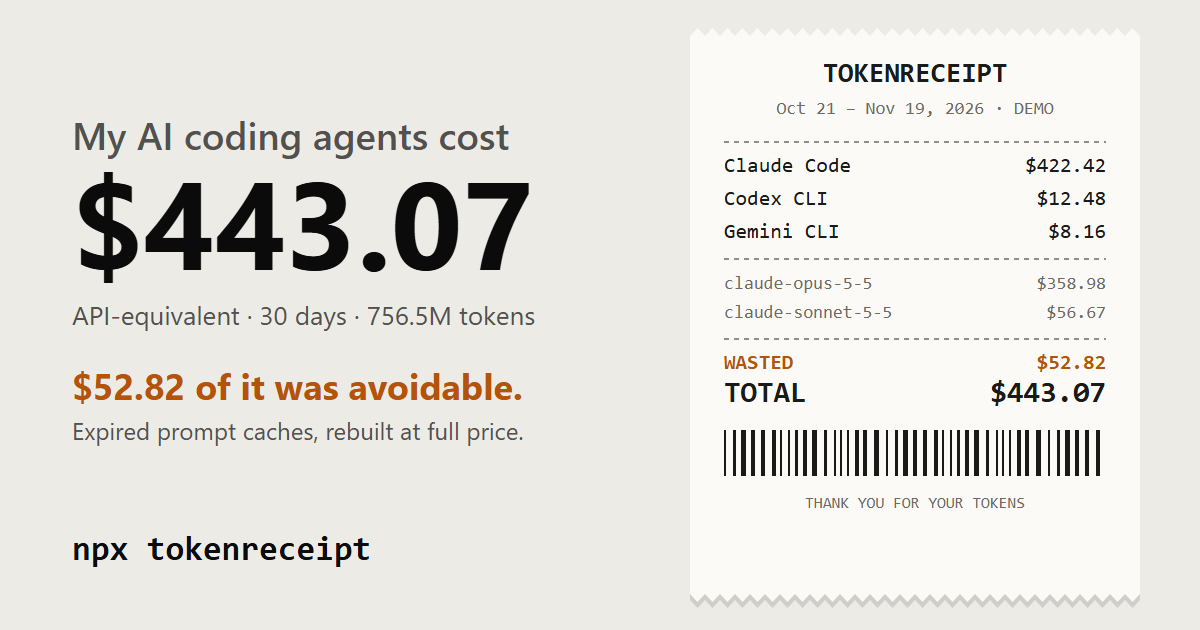
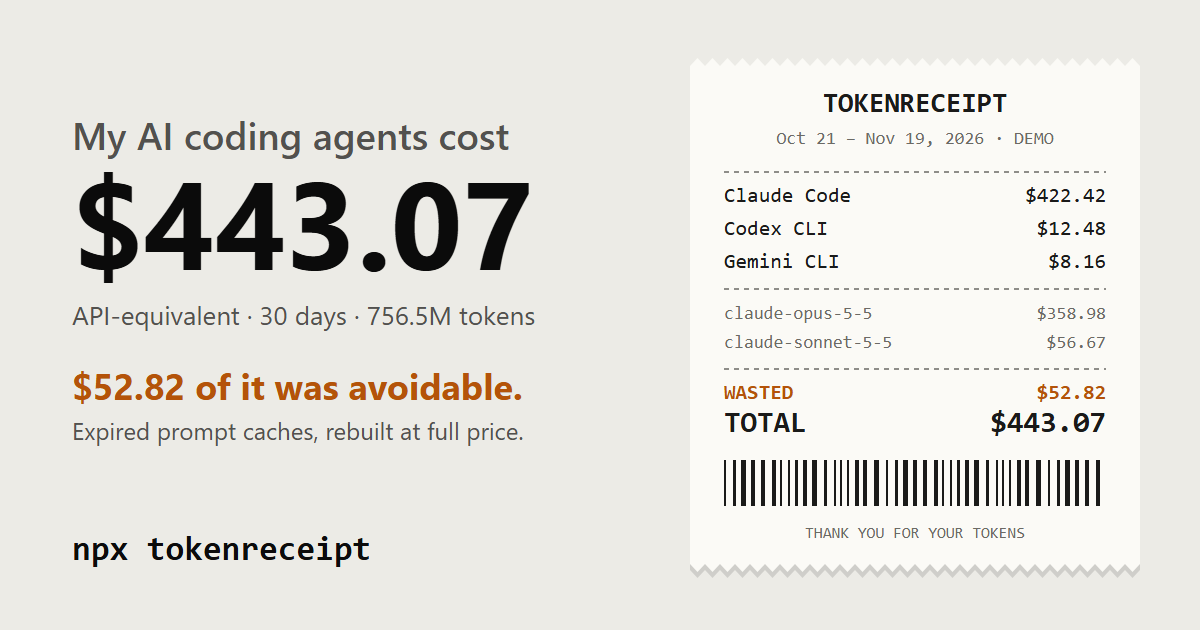
Share card: size the receipt to its content and centre it

diff --git a/src/render/html.ts b/src/render/html.ts
@@ -336,9 +336,10 @@ function shareSvg() {
   const s = svgEl("svg", { viewBox: "0 0 " + W + " " + H, width: W, height: H, xmlns: SVGNS });
   const sans = "ui-sans-serif, system-ui, -apple-system, Segoe UI, Roboto, sans-serif";
   const mono = "ui-monospace, SFMono-Regular, Menlo, Consolas, monospace";
+  let layer = s;
   const text = (x, y, str, size, color, weight, anchor, family) => {
     const t = svgEl("text", { x, y, fill: color, "font-size": size, "font-weight": weight || 400, "font-family": family || sans, "text-anchor": anchor || "start" });
-    t.textContent = str; s.append(t); return t;
+    t.textContent = str; layer.append(t); return t;
   };
   s.append(svgEl("rect", { width: W, height: H, fill: bg }));
 
@@ -354,19 +355,14 @@ function shareSvg() {
   }
   text(72, 560, "npx tokenreceipt", 34, fg, 700, "start", mono);
 
-  // right: the receipt, with torn zigzag edges
-  const rx = 690, rw = 450, top = 28, bottom = 602, tooth = 15;
-  let d = "M" + rx + "," + (top + 8);
-  for (let x = rx; x < rx + rw; x += tooth) d += "L" + (x + tooth / 2) + "," + top + "L" + Math.min(x + tooth, rx + rw) + "," + (top + 8);
-  d += "L" + (rx + rw) + "," + (bottom - 8);
-  for (let x = rx + rw; x > rx; x -= tooth) d += "L" + (x - tooth / 2) + "," + bottom + "L" + Math.max(x - tooth, rx) + "," + (bottom - 8);
-  d += "Z";
-  s.append(svgEl("path", { d, fill: "#000", opacity: dark ? 0.5 : 0.12, transform: "translate(0,6)" }));
-  s.append(svgEl("path", { d, fill: paper }));
+  // right: the receipt, with torn zigzag edges; it is as tall as its content, centred vertically
+  const rx = 690, rw = 450, top = 28, tooth = 15;
+  const receipt = svgEl("g", {}), paperLayer = svgEl("g", {});
+  receipt.append(paperLayer); s.append(receipt); layer = receipt;
 
   const L = rx + 34, R2 = rx + rw - 34, cx = rx + rw / 2;
   let y = 82;
-  const rule = () => { s.append(svgEl("line", { x1: L, x2: R2, y1: y - 12, y2: y - 12, stroke: inkMute, "stroke-dasharray": "5 5", "stroke-width": 1.5 })); y += 18; };
+  const rule = () => { layer.append(svgEl("line", { x1: L, x2: R2, y1: y - 12, y2: y - 12, stroke: inkMute, "stroke-dasharray": "5 5", "stroke-width": 1.5 })); y += 18; };
   const row = (label, value, opts) => {
     const o = opts || {};
     const size = o.size || 21;
@@ -392,11 +388,19 @@ function shareSvg() {
   let bx = L, i = 0;
   while (bx < R2 - 4) {
     const w = 2 + (seed.charCodeAt(i % seed.length) + i * 7) % 4;
-    if (i % 2 === 0) s.append(svgEl("rect", { x: bx, y: y - 16, width: w, height: 46, fill: ink }));
+    if (i % 2 === 0) layer.append(svgEl("rect", { x: bx, y: y - 16, width: w, height: 46, fill: ink }));
     bx += w + 1 + (i * 3 + seed.length) % 3; i++;
   }
   y += 62;
   text(cx, y, "THANK YOU FOR YOUR TOKENS", 16, inkMute, 400, "middle", mono);
+  const bottom = y + 34;
+  let d = "M" + rx + "," + (top + 8);
+  for (let x = rx; x < rx + rw; x += tooth) d += "L" + (x + tooth / 2) + "," + top + "L" + Math.min(x + tooth, rx + rw) + "," + (top + 8);
+  d += "L" + (rx + rw) + "," + (bottom - 8);
+  for (let x = rx + rw; x > rx; x -= tooth) d += "L" + (x - tooth / 2) + "," + bottom + "L" + Math.max(x - tooth, rx) + "," + (bottom - 8);
+  d += "Z";
+  paperLayer.append(svgEl("path", { d, fill: "#000", opacity: dark ? 0.5 : 0.12, transform: "translate(0,6)" }), svgEl("path", { d, fill: paper }));
+  receipt.setAttribute("transform", "translate(0," + Math.max(0, Math.round((H - (bottom - top)) / 2 - top)) + ")");
   return s;
 }
 
